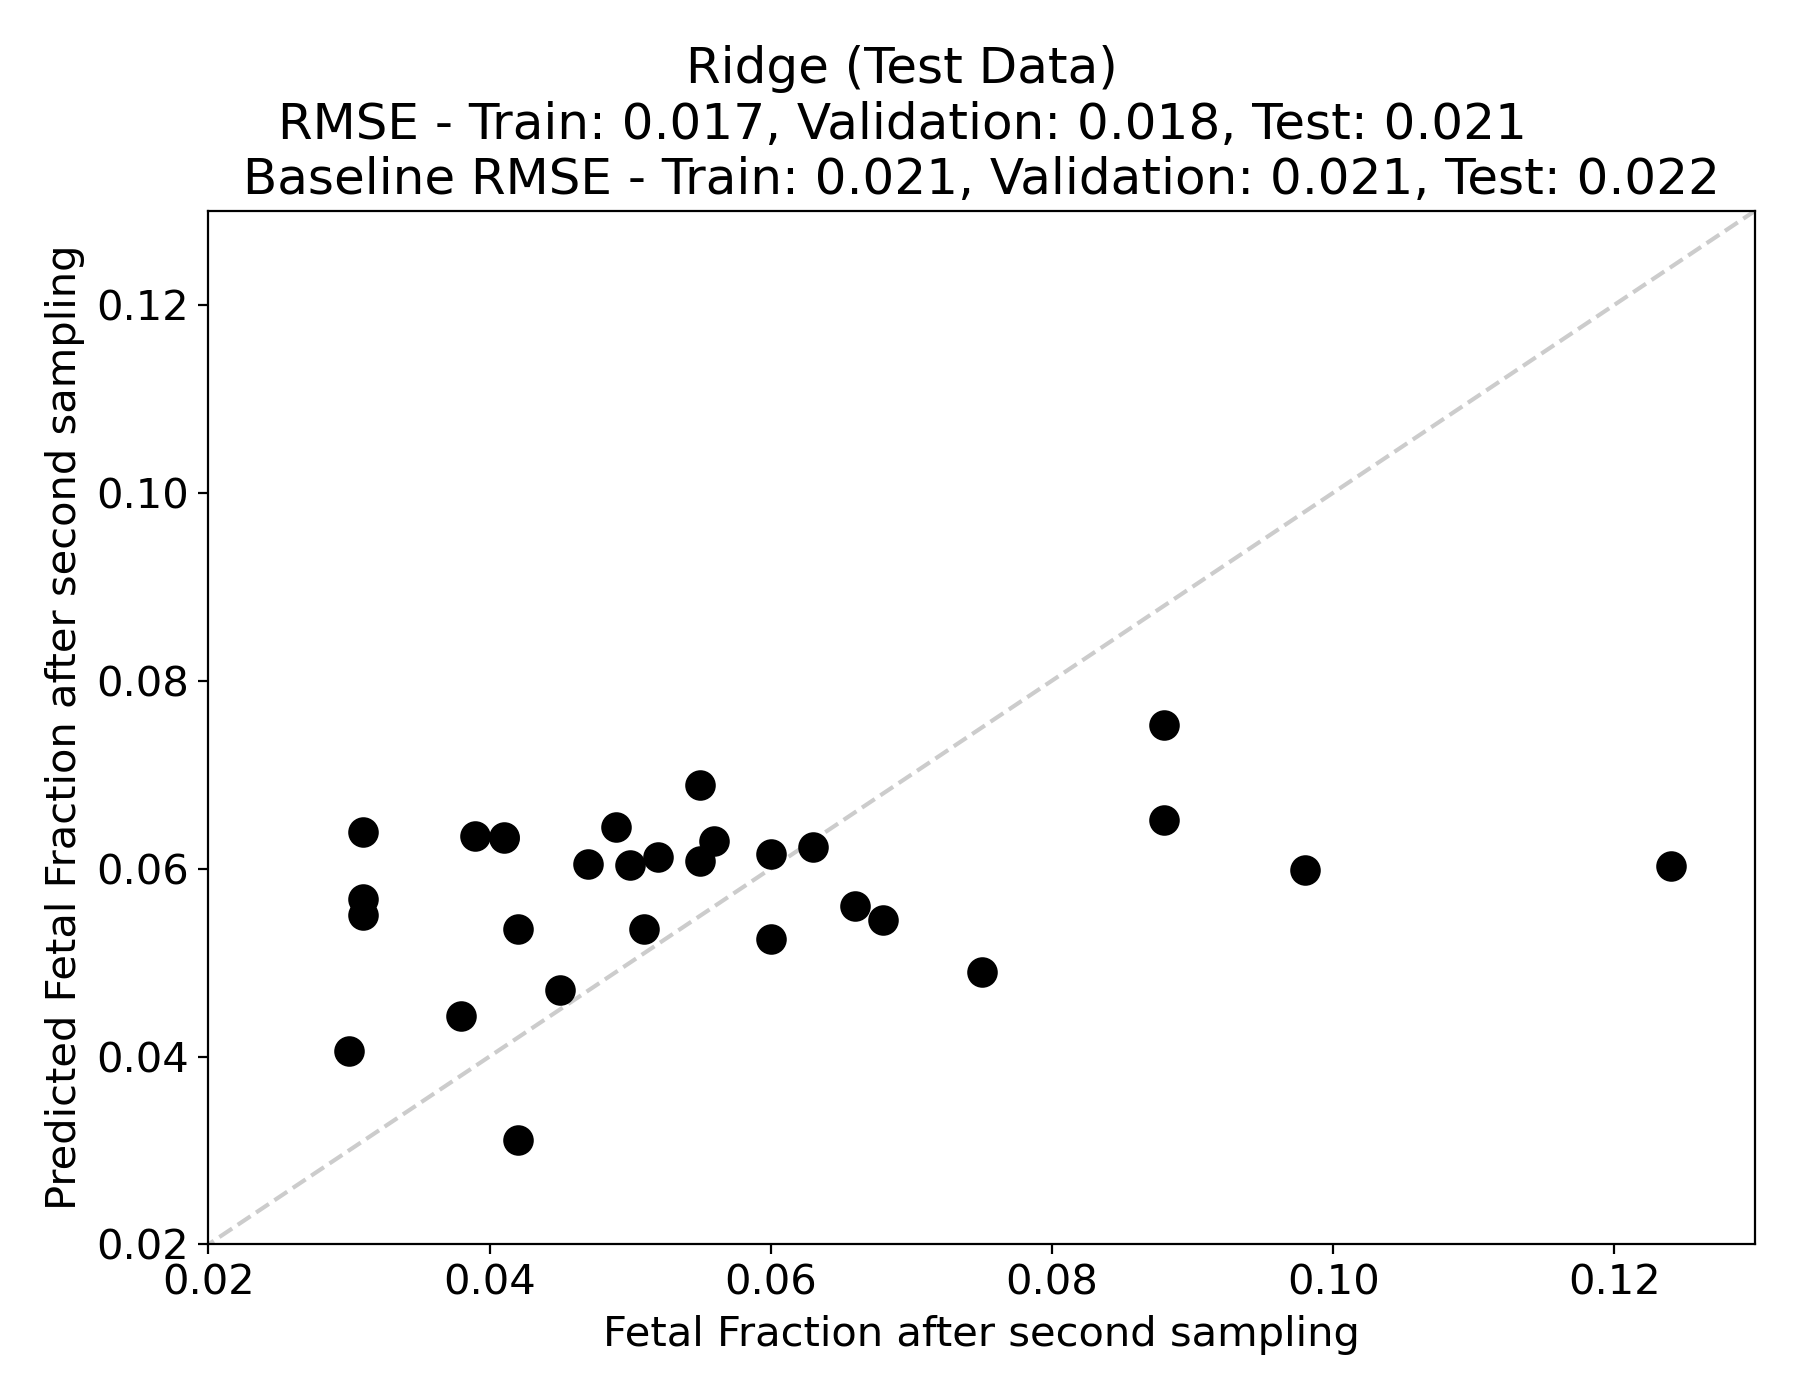
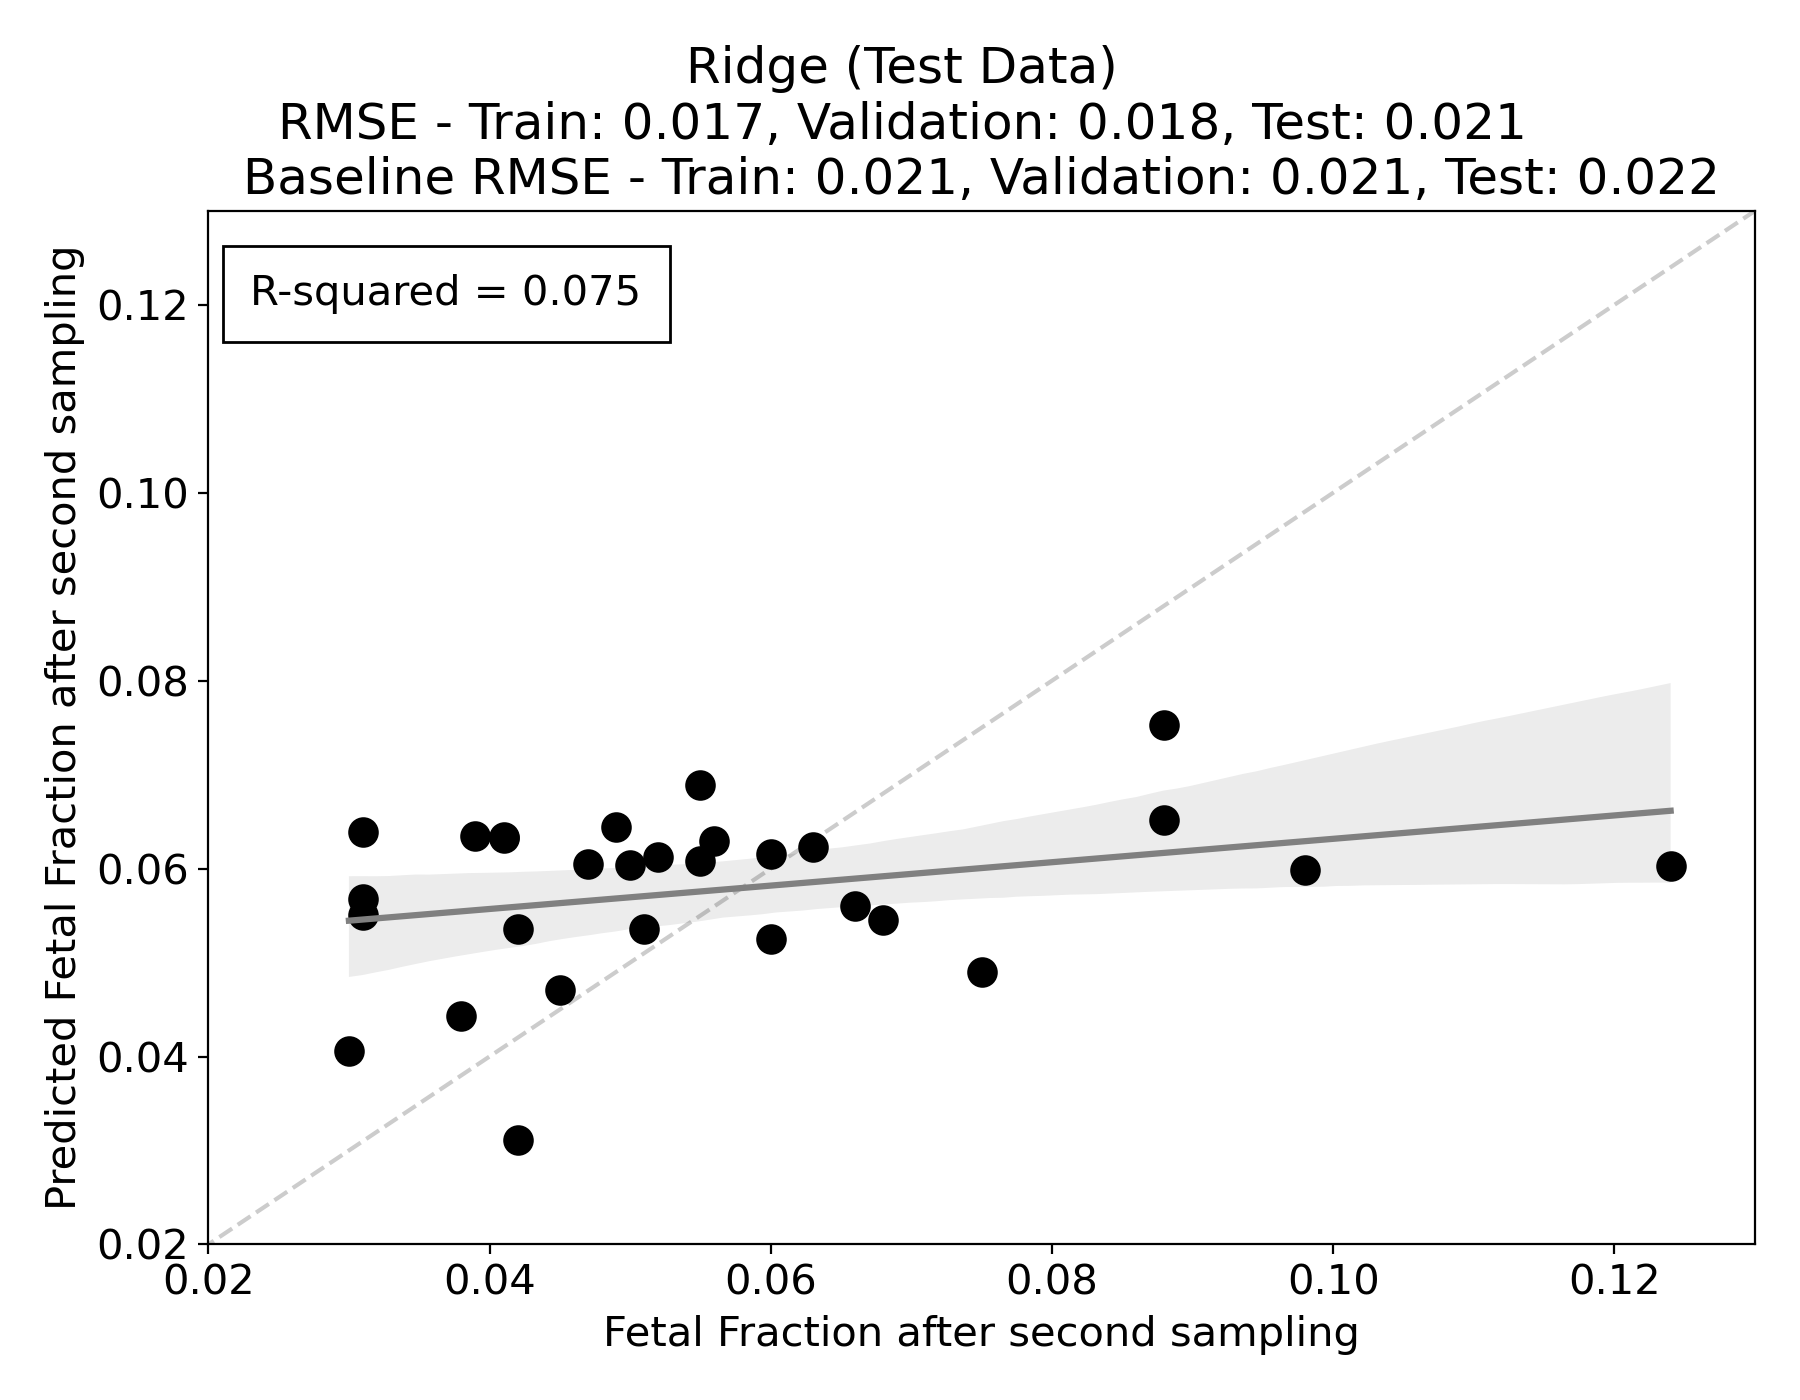
add linear fit with r2 to regression plots

diff --git a/scripts/regression.py b/scripts/regression.py
@@ -17,11 +17,10 @@ import pandas as pd
 import matplotlib.pyplot as plt
 import seaborn as sns
 
-from sklearn.linear_model import LogisticRegression, LinearRegression, Ridge
-from sklearn.discriminant_analysis import LinearDiscriminantAnalysis
+from sklearn.linear_model import Ridge
 from sklearn.svm import SVC, SVR
 from sklearn.preprocessing import PolynomialFeatures
-from sklearn.metrics import mean_squared_error
+from sklearn.metrics import mean_squared_error, r2_score
 
 from sklearn.preprocessing import StandardScaler
 import xgboost as xgb
@@ -29,8 +28,6 @@ from xgboost import XGBRegressor
 
 from scripts.constants import ATTRIBUTES
 
-from scripts.gridsearch import gridsearch 
-from scripts.model_search_space import model_search_space
 
 from matplotlib import rcParams
 
@@ -99,17 +96,17 @@ def trymodel(model, params, X, y, X_val, y_val):
 
 
 # %% Ridge
-# ridge_res = []
-# for alpha in np.linspace(20, 80, 41):
-#     t, v, m = trymodel(Ridge(), {"alpha": alpha}, train_X_s, y_train, val_X_s, y_val)
+ridge_res = []
+for alpha in np.linspace(20, 80, 41):
+    t, v, m = trymodel(Ridge(), {"alpha": alpha}, train_X_s, y_train, val_X_s, y_val)
     
-#     ridge_res.append([alpha, t, v])
+    ridge_res.append([alpha, t, v])
     
-# ridge_res = np.array(ridge_res)
+ridge_res = np.array(ridge_res)
 
-# plt.plot(ridge_res[:, 0], ridge_res[:, 1], '.', label='train')
-# plt.plot(ridge_res[:, 0], ridge_res[:, 2], '.', label='validation')
-# plt.legend()
+plt.plot(ridge_res[:, 0], ridge_res[:, 1], '.', label='train')
+plt.plot(ridge_res[:, 0], ridge_res[:, 2], '.', label='validation')
+plt.legend()
 
 
 # %%
@@ -136,12 +133,17 @@ t, v, m = trymodel(Ridge(), {"alpha": ALPHA}, train_X_s, y_train, val_X_s, y_val
 yhat_test = m.predict(test_X_s)
 ax[1, 1].plot(y_test, yhat_test, '.k', markersize=20)
 ax[1, 1].plot(np.linspace(0, 0.13, 10), np.linspace(0, 0.13, 10), '--k', alpha=0.2)
+sns.regplot(x=y_test, y=yhat_test, color='gray', ax=ax[1, 1])
+
 
 ax[1, 1].set_xlim(0.02, 0.13)
 ax[1, 1].set_ylim(0.02, 0.13)
 
 ax[1, 1].set_xlabel('Fetal Fraction after second sampling')
 ax[1, 1].set_ylabel('Predicted Fetal Fraction after second sampling')
+
+r2 = np.round(r2_score(y_test, yhat_test), 3)
+ax[1, 1].text(0.023, 0.12, f'R-squared = {r2}', bbox={'pad': 10, 'facecolor': 'white'})
 
 ax[1, 1].set_title("D", loc="left", fontsize=30)
 
@@ -158,8 +160,12 @@ t, te, m = trymodel(Ridge(), {"alpha": ALPHA}, train_X_s, y_train, test_X_s, y_t
 
 yhat_train = m.predict(train_X_s)
 yhat_val = m.predict(val_X_s)
+yhat_test = m.predict(test_X_s)
+
 ax.plot(y_test, yhat_test, '.k', markersize=20)
 ax.plot(np.linspace(0, 0.13, 10), np.linspace(0, 0.13, 10), '--k', alpha=0.2)
+
+sns.regplot(x=y_test, y=yhat_test, color='gray')
 
 ax.set_xlim(0.02, 0.13)
 ax.set_ylim(0.02, 0.13)
@@ -179,6 +185,10 @@ plt.title('Ridge (Test Data)\
 
 ax.set_xlabel('Fetal Fraction after second sampling')
 ax.set_ylabel('Predicted Fetal Fraction after second sampling')
+
+r2 = np.round(r2_score(y_test, yhat_test), 3)
+
+ax.text(0.023, 0.12, f'R-squared = {r2}', bbox={'pad': 10, 'facecolor': 'white'})
 
 plt.tight_layout()
 
